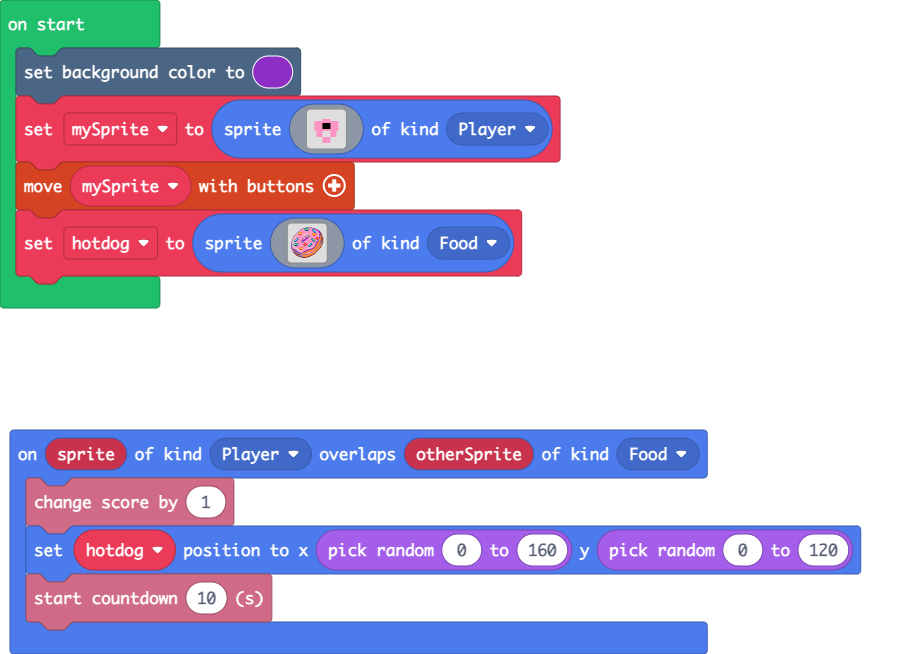
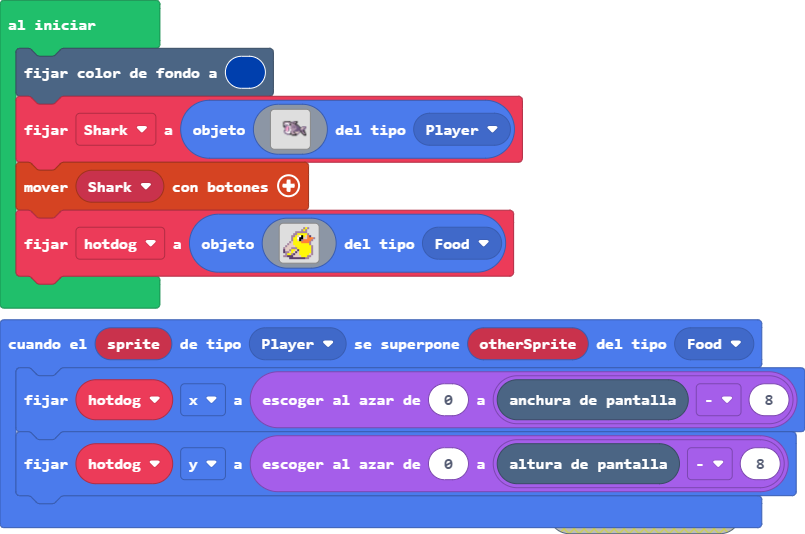
Actualizar pxt.json, main.blocks, main.ts, images.g.ts, main.py

diff --git a/main.ts b/main.ts
@@ -1,60 +1,43 @@
 sprites.onOverlap(SpriteKind.Player, SpriteKind.Food, function (sprite, otherSprite) {
-    info.changeScoreBy(1)
-    hotdog.setPosition(randint(0, 160), randint(0, 120))
-    info.startCountdown(10)
+    hotdog.x = randint(0, scene.screenWidth() - 8)
+    hotdog.y = randint(0, scene.screenHeight() - 8)
 })
 let hotdog: Sprite = null
-scene.setBackgroundColor(10)
-let mySprite = sprites.create(img`
-    . . . . . . . . . . . . . . . . 
-    . . . . . . . . . . . . . . . . 
-    . . . . . . . . . . . . . . . . 
-    . . . . . . 3 3 3 3 . . . . . . 
-    . . 3 3 3 3 3 3 3 3 3 3 3 3 . . 
-    . . 3 3 3 3 f f f f 3 3 3 3 . . 
-    . . 3 3 3 3 f f f f 3 3 3 3 . . 
-    . . 3 3 3 3 f f f f 3 3 3 3 . . 
-    . . 3 3 3 3 3 3 3 3 3 3 3 3 . . 
-    . . . 3 3 3 . . . . 3 3 3 . . . 
-    . . . 3 3 3 . . . . 3 3 3 . . . 
-    . . . 3 3 3 . . . . 3 3 3 . . . 
-    . . . . . . 3 3 3 3 . . . . . . 
-    . . . . . . 3 3 3 3 . . . . . . 
-    . . . . . . 3 3 3 3 . . . . . . 
-    . . . . . . . . . . . . . . . . 
+scene.setBackgroundColor(8)
+let Shark = sprites.create(img`
+    ...........fffffff...ccfff..........
+    ..........fbbbbbbbffcbbbbf..........
+    ..........fbb111bbbbbffbf...........
+    ..........fb11111ffbbbbff...........
+    ..........f1cccc1ffbbbbbcff.........
+    ..........ffc1c1c1bbcbcbcccf........
+    ...........fcc3331bbbcbcbcccf..ccccc
+    ............c333c1bbbcbcbccccfcddbbc
+    ............c333c1bbbbbbbcccccddbcc.
+    ............c333c11bbbbbccccccbbcc..
+    ...........cc331c11bbbbccccccfbccf..
+    ...........cc13c11cbbbcccccbbcfccf..
+    ...........c111111cbbbfdddddc.fbbcf.
+    ............cc1111fbdbbfdddc...fbbf.
+    ..............cccfffbdbbfcc.....fbbf
+    ....................fffff........fff
     `, SpriteKind.Player)
-controller.moveSprite(mySprite)
+controller.moveSprite(Shark)
 hotdog = sprites.create(img`
-    ..............bbbbbbb...........
-    ...........bb66663333baa........
-    .........bb3367776333663aa......
-    ........b33333888333389633aa....
-    .......b3333333333333389633aa...
-    ......b34443333333333338633bae..
-    .....b3455433333333334443333ae..
-    ....b33322333dddd3333455233daee.
-    ...b3d333333dd3bbbb33322333dabe.
-    ..b3d333333d3bb33bb33333333da4e.
-    ..bd33333333b33aab3333333223a4ee
-    .b3d3663333b33aab33366332442b4ee
-    .bd3b983333a3aa3333387633ee3b4ee
-    .bd6983333baaa333333387633bb4bee
-    b3d6833333bba333333333863ba44ebe
-    bdd3333333bb3333333333333a44bebe
-    add666633333322333366333ba44bbbe
-    ad67776333332442336983d3a444b4e.
-    add888b333333ee3369833d3a44b44e.
-    add333333333333336833d3a444b4e..
-    a3dd3333344433333dddd3a444b44e..
-    ab33ddd325543333dd33aa444b44e...
-    .eabb3dd32233333baaa4444b44e....
-    .ebabb3d333d33baa444443b44e.....
-    ..ebaab3ddd3aaa4444433b44e......
-    ..eebbaab33a44444333b444e.......
-    ...eeebbaab444b333b4444e........
-    ....ebeeebbbbbbbb4444ee.........
-    .....eebbbb44444444ee...........
-    .......eeebbb444eee.............
-    ..........eeeeee................
-    ................................
+    . . . . . . . . . . b 5 b . . . 
+    . . . . . . . . . b 5 b . . . . 
+    . . . . . . b b b b b b . . . . 
+    . . . . . b b 5 5 5 5 5 b . . . 
+    . . . . b b 5 d 1 f 5 d 4 c . . 
+    . . . . b 5 5 1 f f d d 4 4 4 b 
+    . . . . b 5 5 d f b 4 4 4 4 b . 
+    . . . b d 5 5 5 5 4 4 4 4 b . . 
+    . . b d d 5 5 5 5 5 5 5 5 b . . 
+    . b d d d d 5 5 5 5 5 5 5 5 b . 
+    b d d d b b b 5 5 5 5 5 5 5 b . 
+    c d d b 5 5 d c 5 5 5 5 5 5 b . 
+    c b b d 5 d c d 5 5 5 5 5 5 b . 
+    . b 5 5 b c d d 5 5 5 5 5 d b . 
+    b b c c c d d d d 5 5 5 b b . . 
+    . . . c c c c c c c c b b . . . 
     `, SpriteKind.Food)

diff --git a/images.g.ts b/images.g.ts
@@ -1,4 +1,4 @@
-// Auto-generated code. Do not edit.
+// Código generado automáticamente. No editar.
 namespace myImages {
 
     helpers._registerFactory("image", function(name: string) {
@@ -118,5 +118,12 @@ ab33ddd325543333dd33aa444b44e...
         return null;
     })
 
+    helpers._registerFactory("song", function(name: string) {
+        switch(helpers.stringTrim(name)) {
+
+        }
+        return null;
+    })
+
 }
-// Auto-generated code. Do not edit.
+// Código generado automáticamente. No editar.

diff --git a/main.py b/main.py
@@ -1,0 +1,27 @@
+def on_on_overlap(sprite, otherSprite):
+    hotdog: Sprite = None
+    info.change_score_by(1)
+    hotdog.set_position(randint(0, 160), randint(0, 120))
+    info.start_countdown(10)
+sprites.on_overlap(SpriteKind.player, SpriteKind.food, on_on_overlap)
+
+Shark = sprites.create(img("""
+        ...........fffffff...ccfff..........
+            ..........fbbbbbbbffcbbbbf..........
+            ..........fbb111bbbbbffbf...........
+            ..........fb11111ffbbbbff...........
+            ..........f1cccc1ffbbbbbcff.........
+            ..........ffc1c1c1bbcbcbcccf........
+            ...........fcc3331bbbcbcbcccf..ccccc
+            ............c333c1bbbcbcbccccfcddbbc
+            ............c333c1bbbbbbbcccccddbcc.
+            ............c333c11bbbbbccccccbbcc..
+            ...........cc331c11bbbbccccccfbccf..
+            ...........cc13c11cbbbcccccbbcfccf..
+            ...........c111111cbbbfdddddc.fbbcf.
+            ............cc1111fbdbbfdddc...fbbf.
+            ..............cccfffbdbbfcc.....fbbf
+            ....................fffff........fff
+    """),
+    SpriteKind.player)
+controller.move_sprite(Shark)
